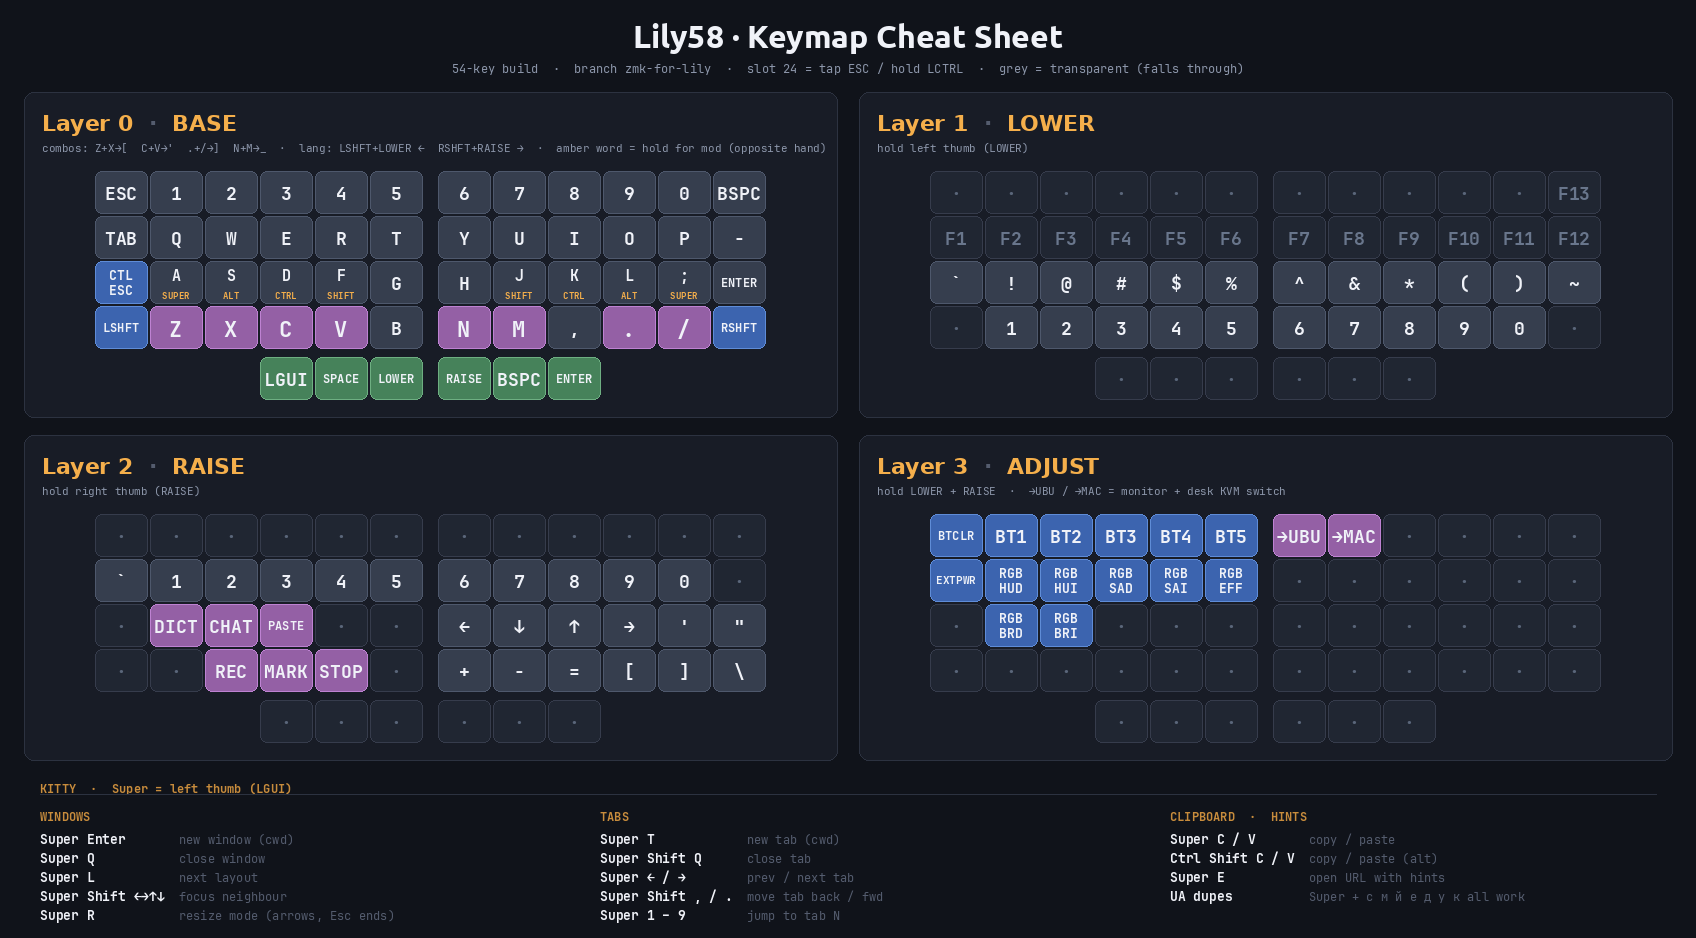
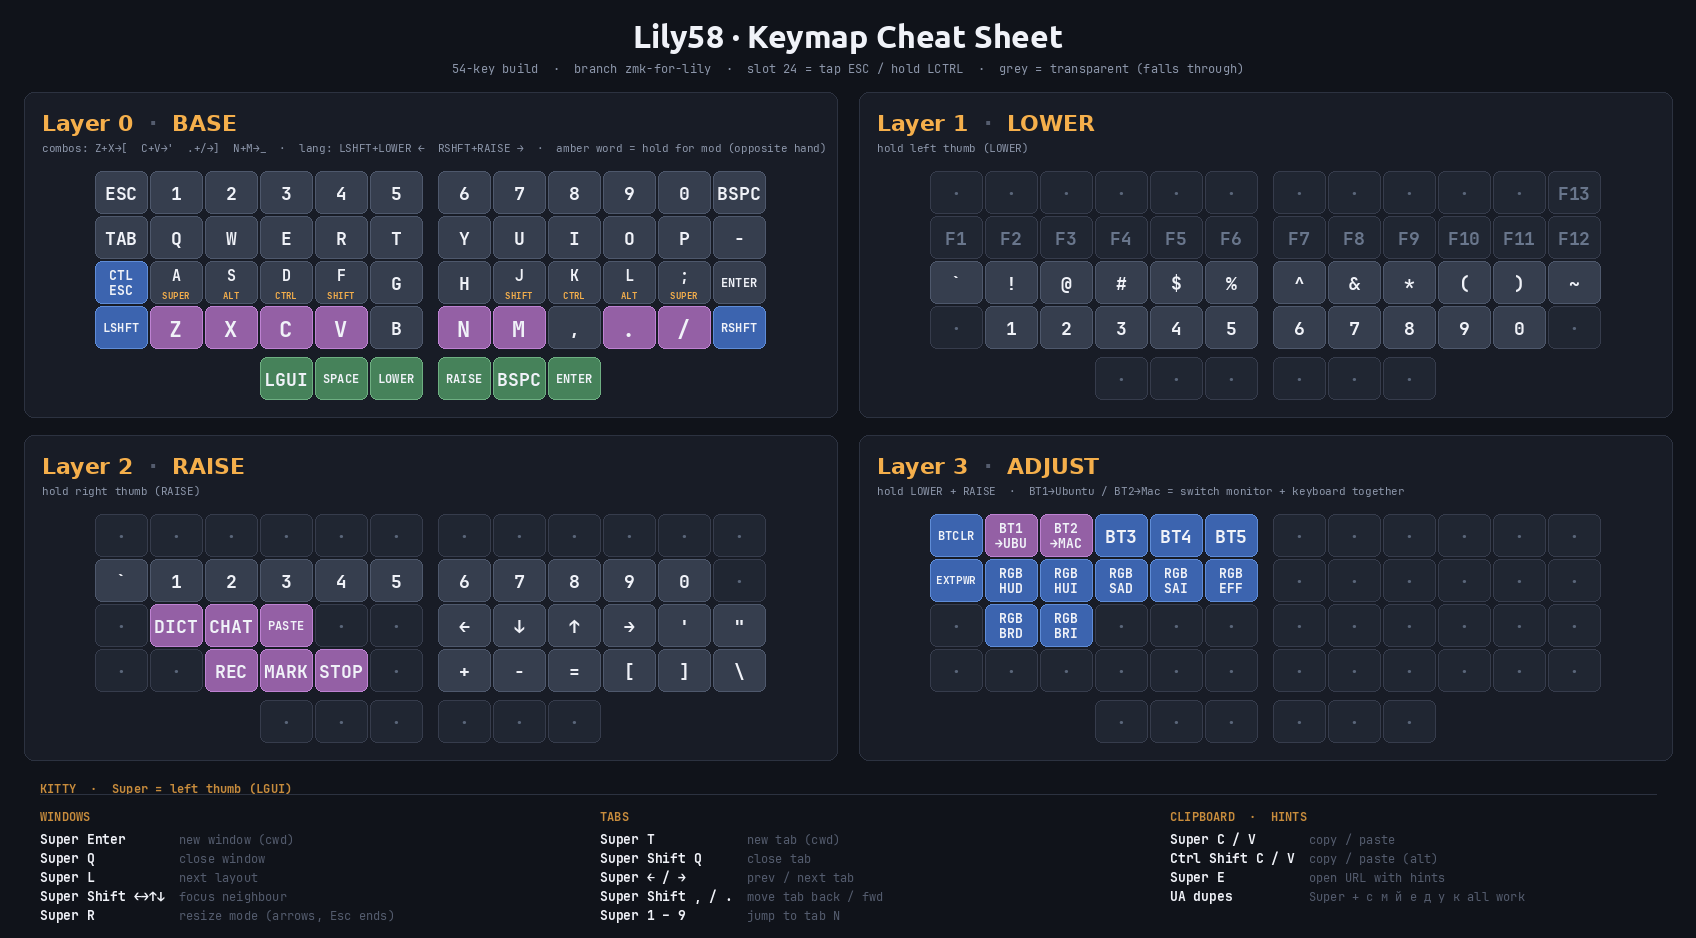
Layout: BT1/BT2 do the full desk switch (monitor+BT); drop separate →UBU/→MAC
BT1 = kvm_to_laptop, BT2 = kvm_to_mac — one Bluetooth-profile key now also flips
the Samsung monitor (taps F16/F17 → the currently-connected host runs the DDC
switch), matching the model "BT2 = go to Mac, everything". The standalone
→UBU/→MAC keys on the ADJUST right hand are removed (→ &trans); BT3–5 stay plain
profile switches. Cheat-sheet + wallpaper relabel BT1/BT2 as the desk-switch keys.

Claude-Session: https://claude.ai/code/session_0118q44DYuJeosAc13BYXCgu

Changed region(s): [[0.5625, 0.5256, 0.6562, 0.6183], [0.75, 0.5256, 0.8125, 0.6183]]

diff --git a/make_wallpaper.py b/make_wallpaper.py
@@ -506,6 +506,23 @@ def draw_footer(canvas, footer_top, openrouter_usage=None):
             tw = d.textlength(lab, font=mini_font)
             d.text((kx + (mw - tw) / 2, ky + 4), lab, font=mini_font, fill=text_color)
 
+    # Desk-switch keys: BT1 / BT2 now do the FULL switch (monitor + keyboard),
+    # not just Bluetooth. The pictogram grid above is a quiet left-hand map, so
+    # call the switch out loud here, purple to match the cheat-sheet. (These are
+    # physical keys 1 / 2 on the ADJUST layer.)
+    kvm_top = grid_y + 3 * (mh + mg) + 8
+    kvm_cap_font = F(MONO_BOLD, 9)
+    kvm_sub_font = F(MONO, 9)
+    kw, kh, kgap = 80, 20, 8
+    for i, cap in enumerate(("BT1 → Ubuntu", "BT2 → Mac")):
+        kx = col4_x + i * (kw + kgap)
+        d.rounded_rectangle([kx, kvm_top, kx + kw, kvm_top + kh], radius=4,
+                            fill=COMBO_BG, outline=COMBO_BORDER, width=1)
+        tw = d.textlength(cap, font=kvm_cap_font)
+        d.text((kx + (kw - tw) / 2, kvm_top + 5), cap, font=kvm_cap_font, fill=INK)
+    d.text((col4_x, kvm_top + kh + 4), "hold ADJUST · switch monitor + keyboard",
+           font=kvm_sub_font, fill=MUTED)
+
     # Column 5: Legend — single skinny column on the far right.
     section_header("LEGEND", col5_x, color=MUTED)
     swatches = [

diff --git a/make_cheatsheet.py b/make_cheatsheet.py
@@ -101,8 +101,8 @@ RAISE = [
 ]
 
 ADJUST = [
-    ("BTCLR", "mod"), ("BT1", "mod"), ("BT2", "mod"), ("BT3", "mod"), ("BT4", "mod"), ("BT5", "mod"),
-    ("→UBU", "combo"), ("→MAC", "combo"), T, T, T, T,
+    ("BTCLR", "mod"), ("BT1\n→UBU", "combo"), ("BT2\n→MAC", "combo"), ("BT3", "mod"), ("BT4", "mod"), ("BT5", "mod"),
+    T, T, T, T, T, T,
     ("EXTPWR", "mod"), ("RGB\nHUD", "mod"), ("RGB\nHUI", "mod"), ("RGB\nSAD", "mod"), ("RGB\nSAI", "mod"), ("RGB\nEFF", "mod"),
     T, T, T, T, T, T,
     T, ("RGB\nBRD", "mod"), ("RGB\nBRI", "mod"), T, T, T,
@@ -115,7 +115,7 @@ LAYERS_DATA = [
     ("Layer 0", "BASE",   "combos: Z+X→[  C+V→'  .+/→]  N+M→_  ·  lang: LSHFT+LOWER ←  RSHFT+RAISE →  ·  amber word = hold for mod (opposite hand)", BASE),
     ("Layer 1", "LOWER",  "hold left thumb (LOWER)",                                LOWER),
     ("Layer 2", "RAISE",  "hold right thumb (RAISE)",                               RAISE),
-    ("Layer 3", "ADJUST", "hold LOWER + RAISE  ·  →UBU / →MAC = monitor + desk KVM switch", ADJUST),
+    ("Layer 3", "ADJUST", "hold LOWER + RAISE  ·  BT1→Ubuntu / BT2→Mac = switch monitor + keyboard together", ADJUST),
 ]
 
 
